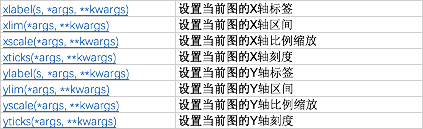
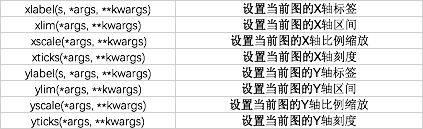
Updates di-liu-bu-fen-ff1a-shu-ju-fen-xi/si-3001-matplotlib-tu-biao-hui-zhi.md
Auto commit by GitBook Editor

diff --git a/di-liu-bu-fen-ff1a-shu-ju-fen-xi/si-3001-matplotlib-tu-biao-hui-zhi.md b/di-liu-bu-fen-ff1a-shu-ju-fen-xi/si-3001-matplotlib-tu-biao-hui-zhi.md
@@ -250,9 +250,55 @@ plt.show()
 
 ![](/assets/6pyplot_annotate.png)
 
-以上是比较常用的几个pyplot模块中的函数。还有几个单独设置X、Y轴的标签、区间、刻度的函数
+以上是比较常用的几个pyplot模块中的函数。还有几个单独设置X、Y轴的标签、区间、刻度的函数。读者可以自行修改接下来三个实例并参考本章刚开始的第一个案例，通过向里面添加命令代码，实现相应功能。
 
-![](/assets/7pyplot_xy.png)
+| functions | 说明 |
+| :---: | :---: |
+| xlabel\(s, \*args, \*\*kwargs\) | 设置当前图的X轴标签 |
+| xlim\(\*args, \*\*kwargs\) | 设置当前图的X轴区间 |
+| xscale\(\*args, \*\*kwargs\) | 设置当前图的X轴比例缩放 |
+| xticks\(\*args, \*\*kwargs\) | 设置当前图的X轴刻度 |
+| ylabel\(s, \*args, \*\*kwargs\) | 设置当前图的Y轴标签 |
+| ylim\(\*args, \*\*kwargs\) | 设置当前图的Y轴区间 |
+| yscale\(\*args, \*\*kwargs\) | 设置当前图的Y轴比例缩放 |
+| yticks\(\*args, \*\*kwargs\) | 设置当前图的Y轴刻度 |
+
+```py
+plt.plot([1, 2, 3, 4])  # x和y的数据源为列表中的1，2，3，4
+plt.ylabel('some numbers') # y轴标签为some numbers
+plt.show()
+```
+
+![](/assets/7pyplot_xy_1.png)
+
+```py
+plt.plot([1, 2, 3, 4], [1, 4, 9, 16]) # 第一个列表为x赋值，第二个列表为y赋值
+plt.show()
+```
+
+![](/assets/7pyplot_xy_2.png)
+
+```py
+plt.plot([1, 2, 3, 4], [1, 4, 9, 16], 'ro') # 第一个列表为x赋值，第二个列表为y赋值，点的形状为圆圈型，颜色为红色
+plt.axis([0, 6, 0, 20]) # x,y轴的区间分别为(0,6)(0,20)
+plt.show()
+```
+
+![](/assets/7pyplot_xy_4.png)
+
+```py
+t = np.arange(0., 5., 0.2)
+# 三条曲线的显示类型red dashes, blue squares and green triangles
+# 同时绘制三条曲线
+plt.plot(t, t, 'r--', t, t**2, 'bs', t, t**3, 'g^')
+plt.show()
+```
+
+![](/assets/7pyplot_xy_5.png)
+
+以上为简单的算术坐标下的二维绘图实现，也是我们经常使用的。pyplot模块除我们提到的还有大量的函数可供使用，感兴趣者请自行查看matplotlib官方文档进行学习和使用。
+
+## 1-2、常用的绘图类型
 
 
 
